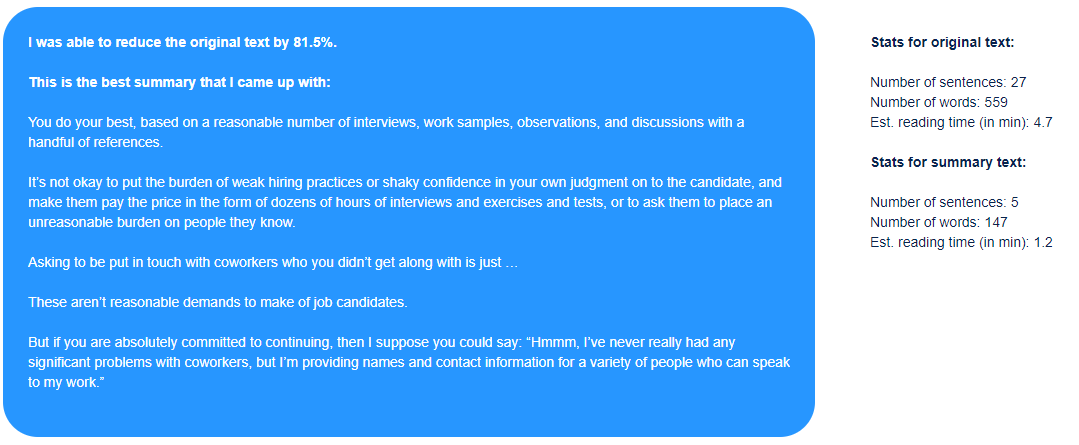
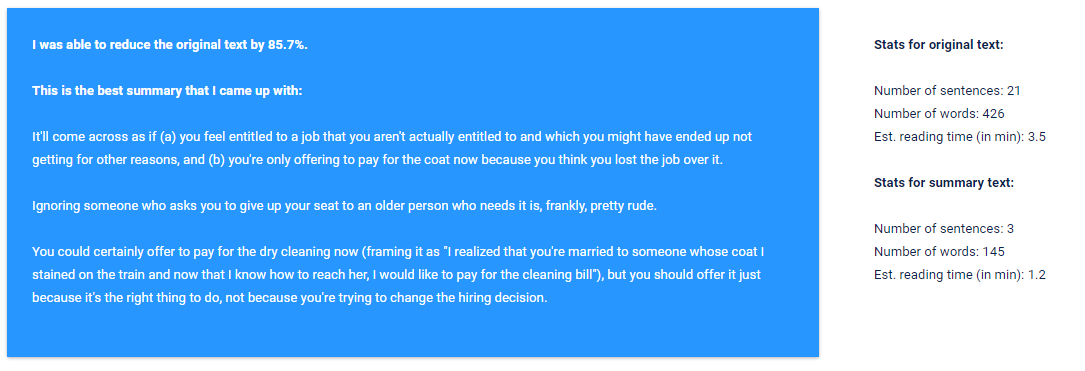
autosmry new aam post

diff --git a/content/post/2018-04-29-comparison-of-auto-text-summarizers.html b/content/post/2018-04-29-comparison-of-auto-text-summarizers.html
@@ -58,7 +58,7 @@ tags:
 </div>
 <div id="test-3-blog-post-from-ask-a-manager" class="section level2">
 <h2>Test 3: Blog post from Ask A Manager</h2>
-<p>I enjoy reading Ask A Manager for its great practical, everyday working advice, and also for some great entertainment too! Here’s the auto summary from a post titled <strong><a href="http://www.askamanager.org/2016/10/company-wants-references-from-coworkers-you-didnt-get-along-with.html">company wants references from “coworkers you didn’t get along with”</a></strong>:</p>
+<p>I enjoy reading Ask A Manager for its great practical, everyday working advice, and also for some great entertainment too! Here’s the auto summary from a post titled <strong><a href="http://www.askamanager.org/2017/07/ceos-wife-ruined-my-job-prospects.html">CEO’s wife ruined my job prospects</a></strong>:</p>
 <div id="test-results-2" class="section level3">
 <h3>Test results</h3>
 <p>A reader writes:</p>
